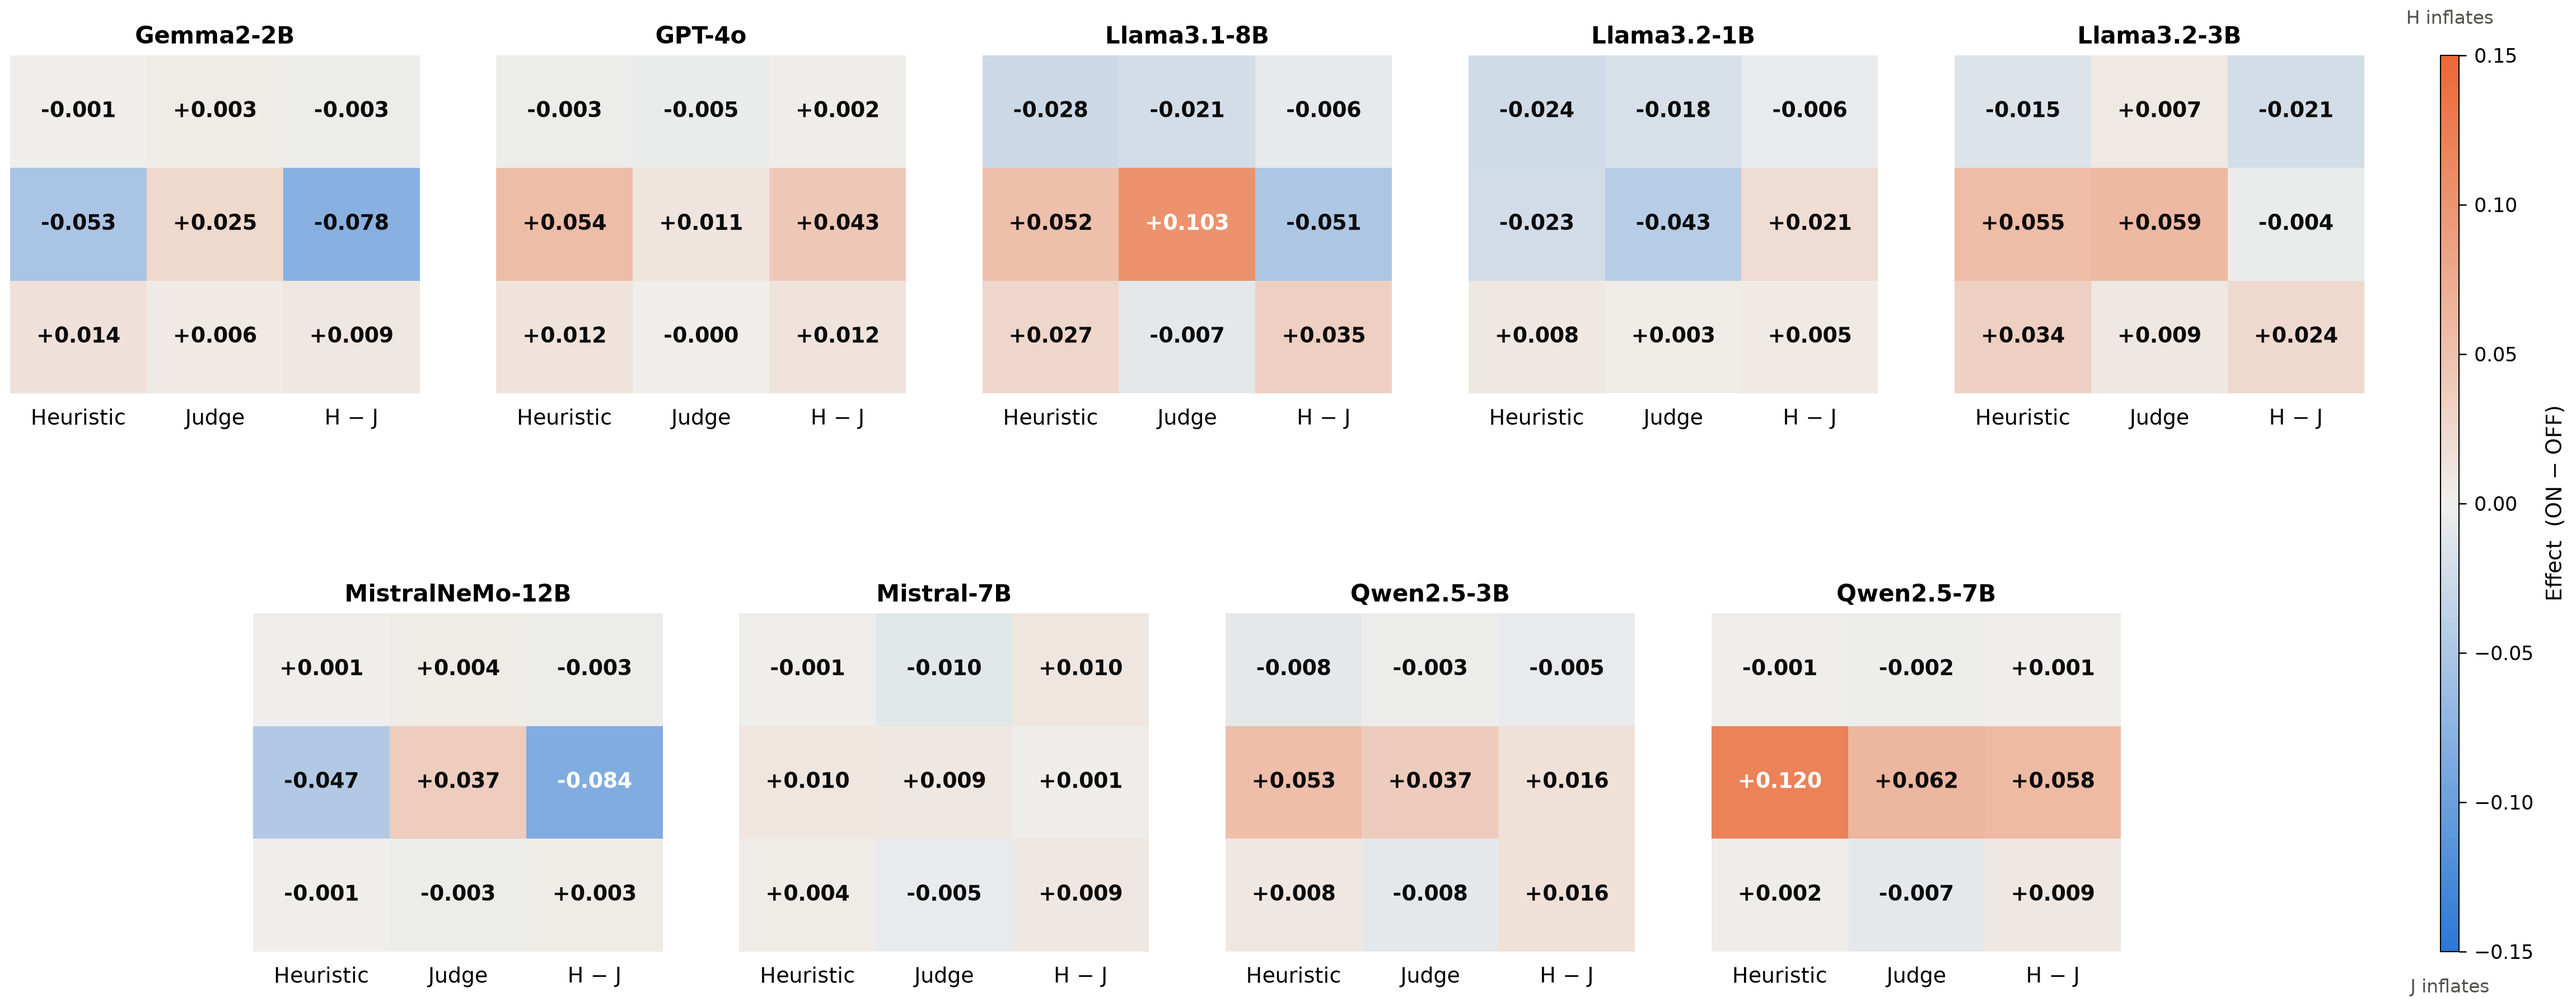
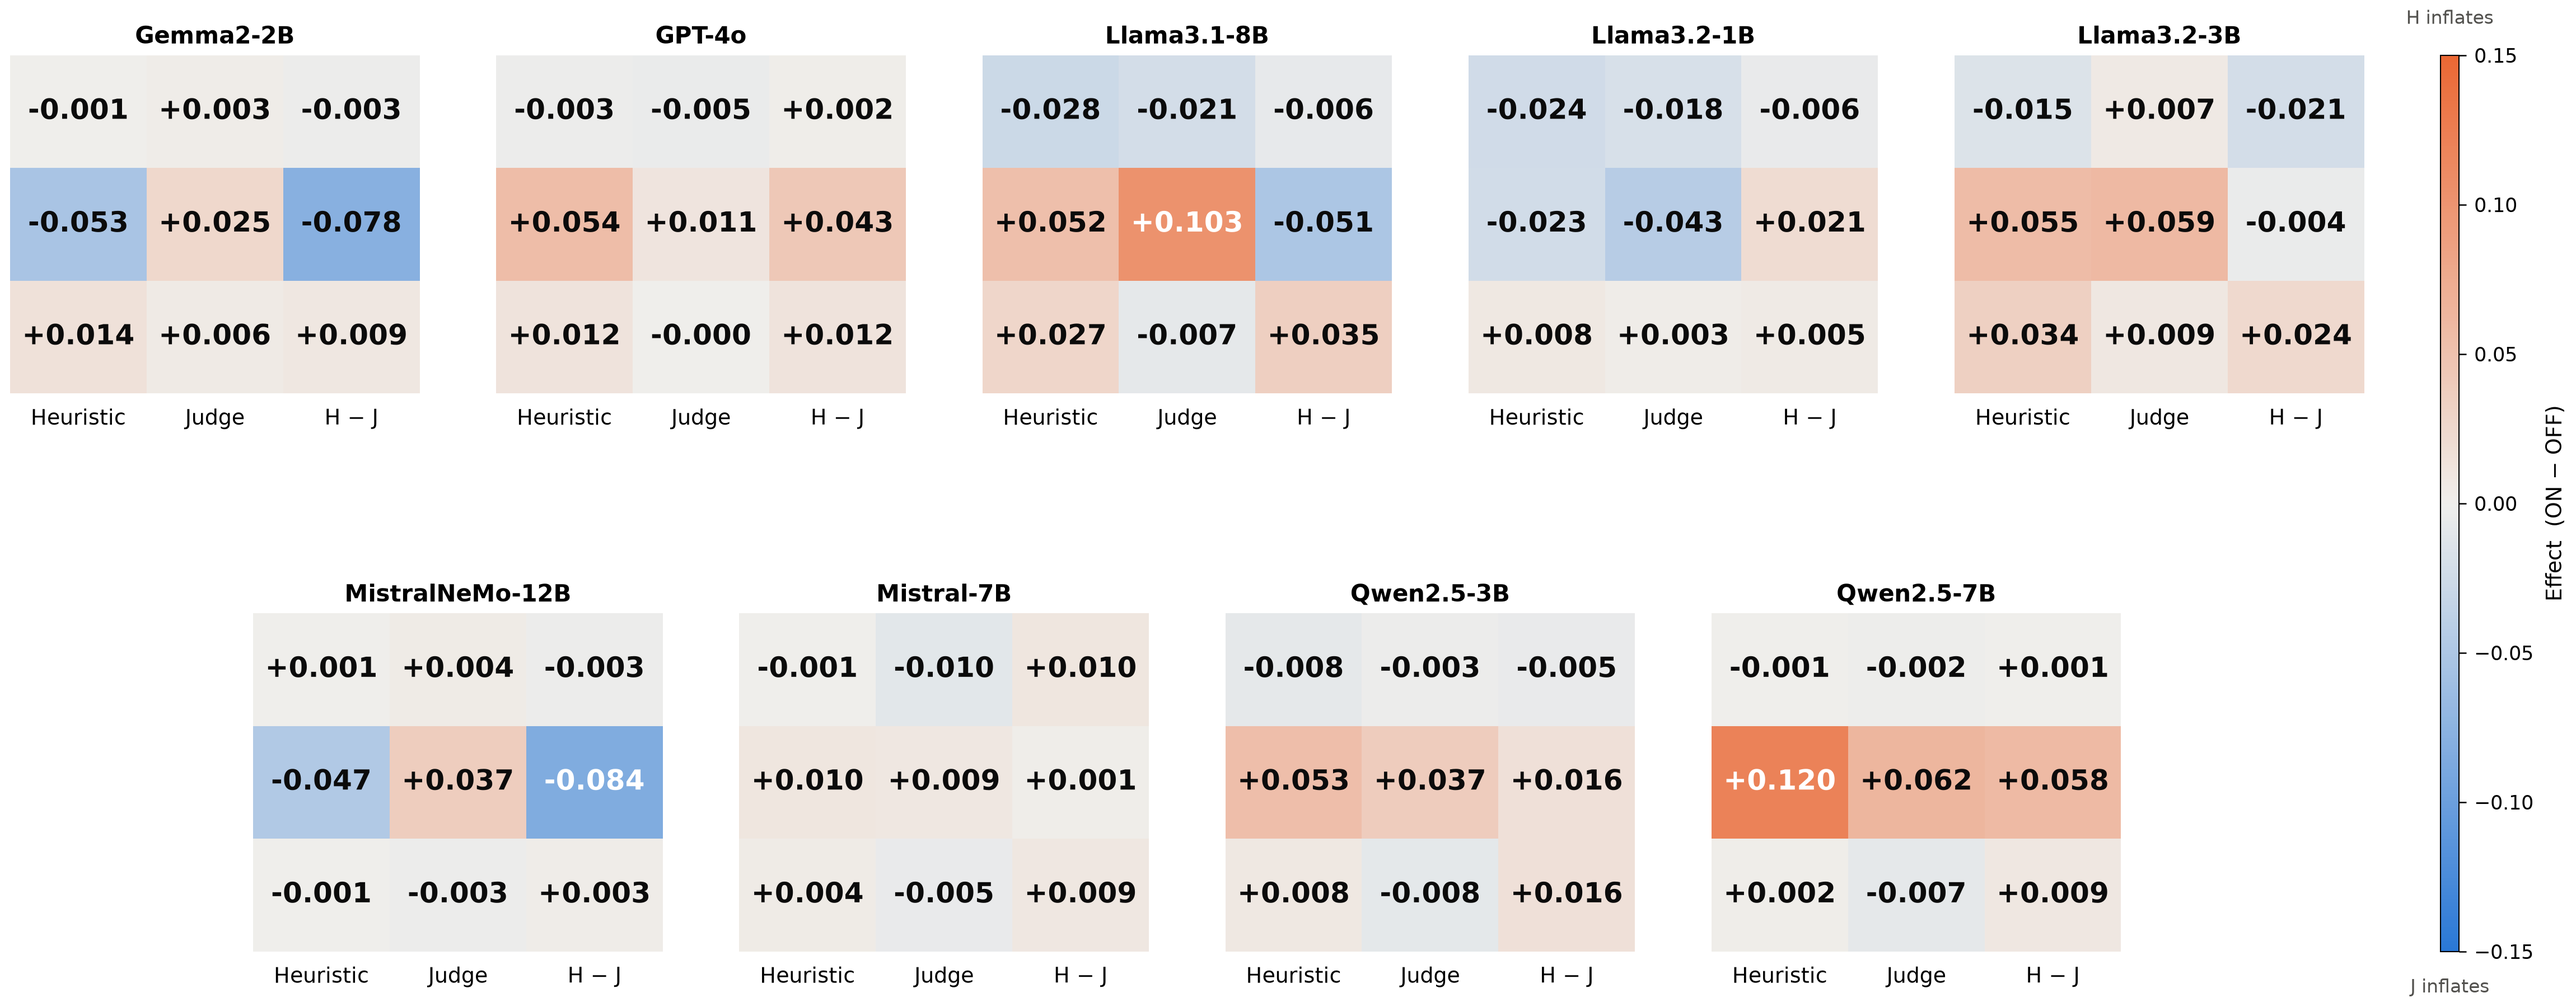
Updated figure 3

diff --git a/study/plot.py b/study/plot.py
@@ -349,7 +349,7 @@ def figure3_ablation(inst_df: pd.DataFrame, out_path: Path) -> None:
                 color = "white" if abs(val) / vmax > 0.55 else "#0b0b0b"
                 ax.text(ei, fi, f"{val:+.3f}",
                         ha="center", va="center",
-                        fontsize=9, color=color, fontweight="bold")
+                        fontsize=12, color=color, fontweight="bold")
 
     if im is not None:
         cbar = fig.colorbar(im, cax=cbar_ax)
@@ -532,4 +532,3 @@ def main() -> None:
 
 if __name__ == "__main__":
     main()
-
